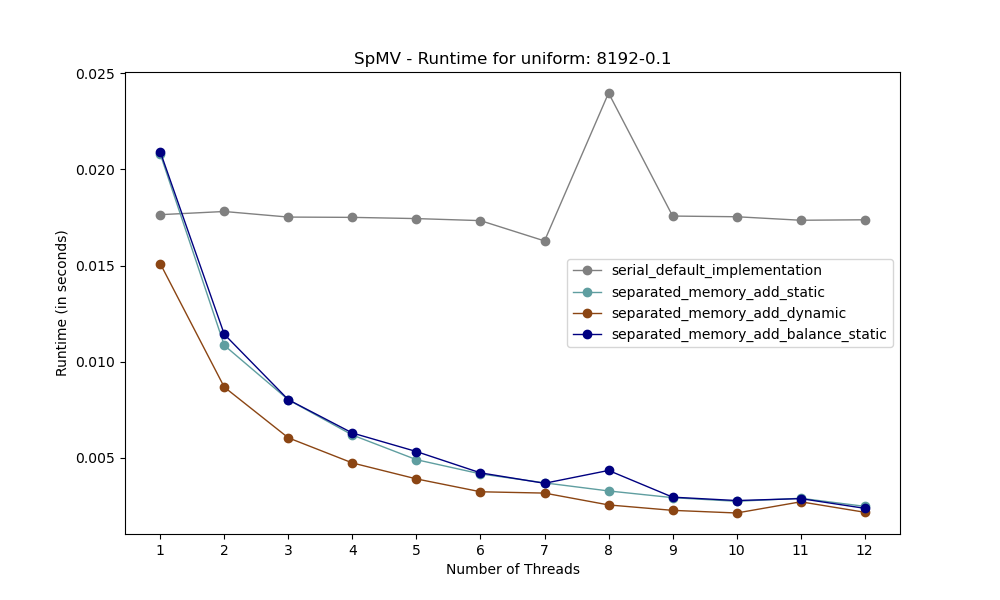
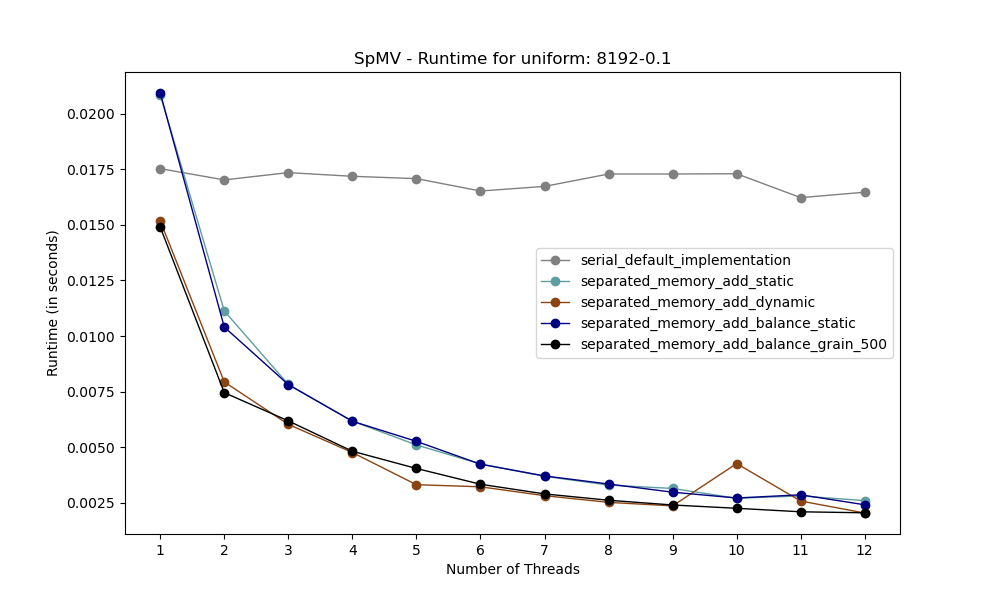
Plot result

diff --git a/parallel/spmv/graph.py b/parallel/spmv/graph.py
@@ -18,6 +18,11 @@ METHODS = [
     "separated_memory_add_static",
     "separated_memory_add_dynamic",
     "separated_memory_add_balance_static",
+    # "separated_memory_add_balance_grain_10",
+    # "separated_memory_add_balance_grain_50",
+    # "separated_memory_add_balance_grain_100",
+    # "separated_memory_add_balance_grain_300",
+    "separated_memory_add_balance_grain_500",
     # "separate_sparselist_separated_memory_add_static",
 ]
 
